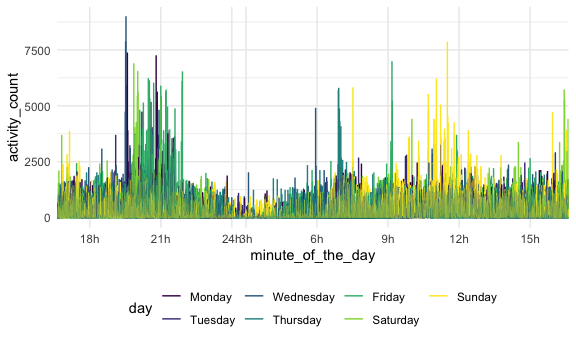
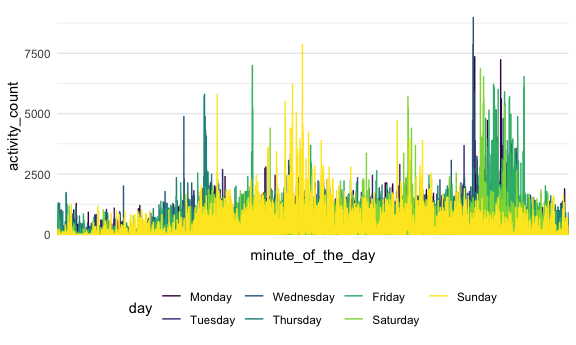
the starting of Problem 3

diff --git a/p8105_hw3_jz3336.md b/p8105_hw3_jz3336.md
@@ -144,6 +144,7 @@ accelerometer_df =
         day %in% c("Saturday", "Sunday") ~ "weekend"
       )) %>% 
     mutate(
+      minute_of_the_day = as.integer(minute_of_the_day),
       week = factor(week),
       day = factor(day, levels = c("Monday", "Tuesday", "Wednesday", "Thursday", "Friday", "Saturday", "Sunday"))
     ) %>% 
@@ -230,3 +231,59 @@ accelerometer_df %>%
 ```
 
 <img src="p8105_hw3_jz3336_files/figure-gfm/unnamed-chunk-8-1.png" width="90%" />
+
+## Problem 3
+
+``` r
+data("ny_noaa")
+```
+
+This dataset contain 2595176 rows and 7 columns. Each observation is
+defined by 7 variables: id is the weather station ID. date is the date
+of observation. prcp is precipitation with unit tenth of mm. snow is the
+snowfall in mm. snwd is the snow depth in mm. tmax is maximum
+temperature in tenth of degree C, and tmin is the minimum temperature in
+tenth of degree C.
+
+1.  Do some data cleaning. Create separate variables for year, month,
+    and day. Ensure observations for temperature, precipitation, and
+    snowfall are given in reasonable units. For snowfall, what are the
+    most commonly observed values? Why?
+
+<!-- end list -->
+
+``` r
+ny_noaa_df = 
+  ny_noaa %>% 
+  separate(date, into = c("year", "month", "day"), sep = "-") %>% 
+  mutate(
+    tmax = as.numeric(tmax),
+    tmin = as.numeric(tmin),
+    tmax = tmax / 10,
+    tmin = tmin / 10,
+    prcp = prcp / 10
+    )
+
+ny_noaa_df %>% 
+  count(snwd) %>% 
+  arrange(desc(n))
+```
+
+    ## # A tibble: 318 x 2
+    ##     snwd       n
+    ##    <int>   <int>
+    ##  1     0 1621683
+    ##  2    NA  591786
+    ##  3    25   52671
+    ##  4    51   43954
+    ##  5    76   35728
+    ##  6   102   31386
+    ##  7   127   25783
+    ##  8   152   23303
+    ##  9   178   18344
+    ## 10   203   17474
+    ## # … with 308 more rows
+
+2.  Make a two-panel plot showing the average max temperature in January
+    and in July in each station across years. Is there any observable /
+    interpretable structure? Any outliers?
